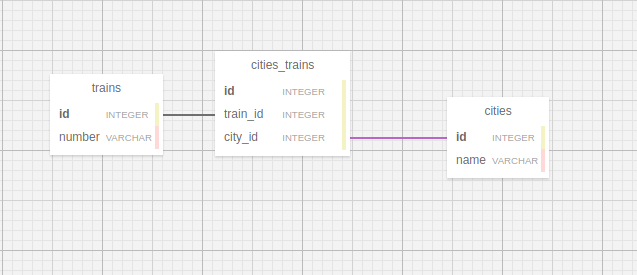
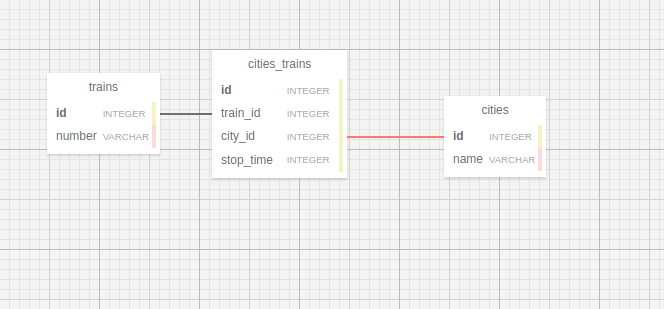
add stop_time field to dbs

Changed region(s): [[0.0, 0.0, 1.0, 1.0], [0.0597, 0.8436, 0.0895, 0.8727]]

diff --git a/Ruby-and-Rails/Week6__DB/train_system/design_notes.md b/Ruby-and-Rails/Week6__DB/train_system/design_notes.md
@@ -12,6 +12,8 @@ There is a many-to-many relationship between cities and trains.
 `Train`: id, number as string.
 `City`: id, name
 
+`cities_trains`: also contains the  `stop_time` column, integer, minutes.  For to use it in operations with `Time` objects, we have to convert it in seconds.
+
 Views for all CRUD functions for *trains* and *cities*.  
 
 Lists for *trains* and *cities* are with links to objects.
@@ -26,3 +28,6 @@ No authentifiction, header with menu for all.
   - [x] Dates? (Date pickers in **Further Exploration**) Same as above, but select a date first.
 - [x] How to add multiply related objects? At ones or one by one?  With checkboxes? One by one. On second stage with ```<select>```
 - [x] Do we need to maintain a stops order and how if do? No.
+- [x] Where to put time each train stops in each city?
+  - [x] Make class like `Related` which can handle additional column in the cross-table? When correspondent function returns array of related objects paired with values.
+

diff --git a/Ruby-and-Rails/Week6__DB/train_system/TODO.md b/Ruby-and-Rails/Week6__DB/train_system/TODO.md
@@ -39,7 +39,12 @@
 - [x] Design DB scheme.  Two main tables and one cross-tabe.
 - [x] Generate db and tables for the project and for the `Storable`-`Related`.
 - [x] Transfer `Storable` and `Related` with tests and views.
-- [ ] Make classes.
+- [x] Make classes.
+- [ ] Put somewhere time each train stops in each city and make corrections...
+  - [ ] Stop-time will be stored in the `cities_trains` table
+    - [x] Make corrections in DB scheme.
+    - [ ] Re-create database accordingly.
+    - [ ] Make a class from the `Related`, which can handle additional column.
 - [ ] Make test data generator.
 - [ ] Make CRUD tests and pages, for trains and cities
   - [ ] Single object view and linked lists.
